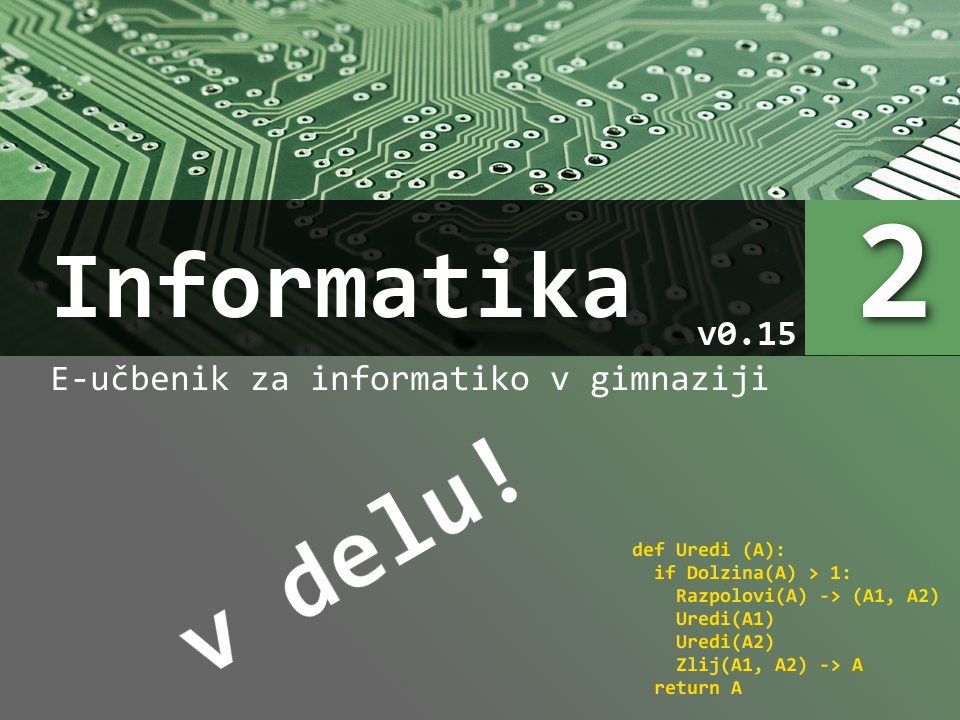
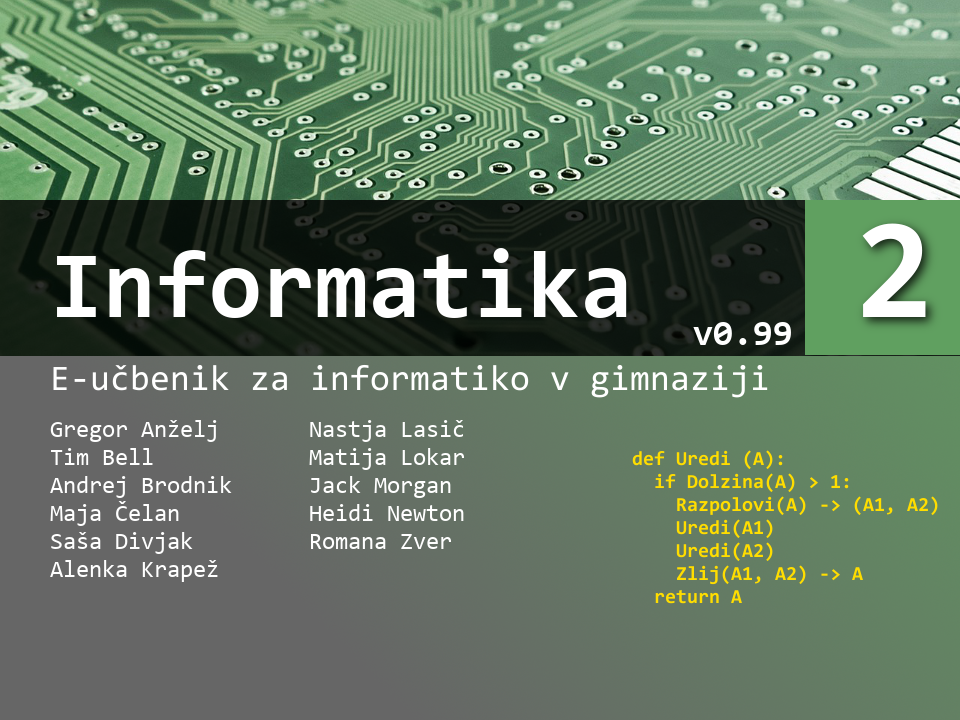
Updated cover and info

diff --git a/book2/2901/index.html b/book2/2901/index.html
@@ -189,7 +189,7 @@
 							E-učbenik za informatiko v gimnaziji<br>
 							<br>
 							<i>Avtorji:</i><br>
-							Gregor Anželj, <nobr>dr. Tim</nobr> Bell, <nobr>dr. Andrej</nobr> Brodnik, Maja Čelan, <nobr>dr. Saša</nobr> Divjak, <nobr>mag. Alenka</nobr> Krapež, Nastja Lasič, <nobr>mag. Matija</nobr> Lokar, Heidi Newton<br>
+							Gregor Anželj, <nobr>dr. Tim</nobr> Bell, <nobr>dr. Andrej</nobr> Brodnik, Maja Čelan, <nobr>dr. Saša</nobr> Divjak, <nobr>mag. Alenka</nobr> Krapež, Nastja Lasič, <nobr>mag. Matija</nobr> Lokar, Jack Morgan, Heidi Newton, Romana Zver<br>
 							<br>
 							<i>Urednik:</i> <nobr>dr. Andrej</nobr> Brodnik<br>
 							<br>
